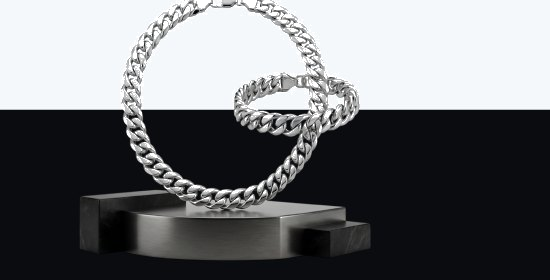
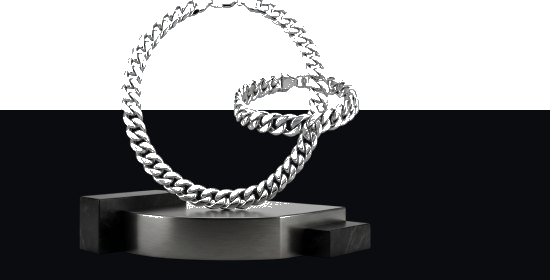
Tighten the Dr. Ice homepage to the Figma layout.
Place the collection title beside the feature ring, show the iceberg and Cuban chain sculpture, use the 3D promise icons, and finish the footer copyright row.

Changed region(s): [[0.0, 0.0, 1.0, 0.7429], [0.5255, 0.5143, 0.5873, 0.5714], [0.2782, 0.7714, 0.3091, 0.8]]

diff --git a/horizon/assets/dr-ice-home.css b/horizon/assets/dr-ice-home.css
@@ -163,24 +163,24 @@ body.template-index #MainContent > .shopify-section {
 
 .dr-ice-story__media {
   position: relative;
-  min-height: 460px;
+  min-height: 560px;
 }
 
 .dr-ice-home .dr-ice-story__hand {
   display: block;
-  width: min(100%, 640px);
-  height: 500px;
+  width: min(78%, 620px);
+  height: 540px;
   object-fit: cover;
-  object-position: center;
+  object-position: center 20%;
 }
 
-.dr-ice-story__rings {
+.dr-ice-home .dr-ice-story__rings {
   position: absolute;
-  right: 4%;
-  bottom: 8px;
-  width: min(420px, 68%);
+  left: 36%;
+  bottom: 6px;
+  z-index: 2;
+  width: min(560px, 78%);
   height: auto;
-  filter: drop-shadow(0 16px 24px rgb(10 16 28 / 12%));
 }
 
 .dr-ice-story__copy {
@@ -494,45 +494,44 @@ body.template-index #MainContent > .shopify-section {
 }
 
 .dr-ice-elegance {
+  position: relative;
+  z-index: 1;
   width: var(--ice-wrap);
-  margin: 48px auto 0;
-  padding-bottom: 24px;
+  margin: 28px auto 0;
+  padding: 36px 0 28px;
 }
 
 .dr-ice-elegance__stage {
   position: relative;
   display: grid;
-  grid-template-columns: minmax(0, 1.15fr) minmax(240px, 0.72fr);
+  grid-template-columns: minmax(0, 1.25fr) minmax(220px, 320px);
   align-items: center;
-  min-height: 460px;
+  gap: 28px;
+  margin: 72px 2% 0;
+  padding: 8px 24px 28px 12px;
+  background: var(--ice-black);
 }
 
 .dr-ice-elegance__back {
-  position: absolute;
-  left: 8%;
-  right: 0;
-  top: 18%;
-  bottom: 12%;
-  background: var(--ice-black);
+  display: none;
 }
 
 .dr-ice-elegance__card {
   position: relative;
   z-index: 1;
-  margin-right: -8%;
-  padding: 28px 36px 32px;
-  background: var(--ice-black);
+  margin: 0;
+  padding: 0 8px 4px;
+  background: transparent;
   color: #fff;
   text-align: center;
 }
 
 .dr-ice-home .dr-ice-elegance__chain {
   display: block;
-  width: min(340px, 82%);
-  height: 190px;
-  margin: 0 auto 4px;
+  width: min(500px, 92%);
+  height: auto;
+  margin: -176px auto 4px;
   object-fit: contain;
-  object-position: center bottom;
   background: transparent;
 }
 
@@ -556,29 +555,30 @@ body.template-index #MainContent > .shopify-section {
   position: relative;
   z-index: 2;
   justify-self: end;
-  width: min(100%, 360px);
-  height: 460px;
+  width: 100%;
+  height: 480px;
   object-fit: cover;
-  object-position: center top;
+  object-position: center 18%;
+  border-radius: 2px;
 }
 
 .dr-ice-collection {
   width: var(--ice-wrap);
-  margin: 36px auto 0;
-  padding-bottom: 28px;
+  margin: 48px auto 0;
+  padding-bottom: 12px;
 }
 
 .dr-ice-collection h2 {
   text-align: center;
-  font-size: clamp(30px, 3vw, 44px);
+  font-size: clamp(28px, 2.8vw, 42px);
 }
 
 .dr-ice-tabs {
   display: flex;
   flex-wrap: wrap;
-  justify-content: center;
+  justify-content: flex-start;
   gap: 10px;
-  margin-top: 18px;
+  margin-top: 16px;
 }
 
 .dr-ice-tabs button {
@@ -604,24 +604,32 @@ body.template-index #MainContent > .shopify-section {
 
 .dr-ice-collection__layout {
   display: grid;
-  grid-template-columns: 250px minmax(0, 1fr);
-  gap: 28px;
-  align-items: center;
-  margin-top: 26px;
+  grid-template-columns: minmax(210px, 270px) minmax(0, 1fr);
+  gap: 40px;
+  align-items: stretch;
+}
+
+.dr-ice-collection__main {
+  min-width: 0;
+  padding-top: 8px;
 }
 
 .dr-ice-home .dr-ice-collection__feature {
   display: block;
   width: 100%;
-  height: 440px;
+  height: 100%;
+  min-height: 520px;
   object-fit: cover;
-  border-radius: 8px;
+  object-position: center;
+  border-radius: 12px;
   background: #111;
 }
 
 .dr-ice-rail {
   position: relative;
   min-width: 0;
+  margin-top: 18px;
+  padding-bottom: 86px;
 }
 
 .dr-ice-rail__scroller {
@@ -644,12 +652,12 @@ body.template-index #MainContent > .shopify-section {
 .dr-ice-home .dr-ice-rail__ice {
   position: absolute;
   left: 0;
-  right: 36px;
+  right: 0;
   bottom: 0;
   z-index: 0;
-  width: calc(100% - 36px);
-  height: 72px;
-  object-fit: cover;
+  width: 100%;
+  height: 128px;
+  object-fit: fill;
   object-position: center bottom;
   pointer-events: none;
 }
@@ -658,10 +666,10 @@ body.template-index #MainContent > .shopify-section {
   position: relative;
   z-index: 1;
   scroll-snap-align: start;
-  border: 1px solid #9eb0df;
+  border: 1px solid #c5d4ee;
   border-radius: 6px;
-  background: linear-gradient(180deg, #f7fbfe 0%, #d7ebf6 100%);
-  min-height: 280px;
+  background: linear-gradient(180deg, rgb(255 255 255 / 82%) 0%, rgb(214 232 245 / 72%) 100%);
+  min-height: 292px;
 }
 
 .dr-ice-pcard > a:first-child {
@@ -734,7 +742,7 @@ body.template-index #MainContent > .shopify-section {
 }
 
 .dr-ice-stats article {
-  padding: 36px 16px 32px;
+  padding: 28px 16px 26px;
   text-align: center;
   border-left: 1px solid rgb(64 98 195 / 28%);
 }
@@ -743,17 +751,21 @@ body.template-index #MainContent > .shopify-section {
   border-left: 0;
 }
 
-.dr-ice-stats svg {
-  width: 36px;
-  height: 36px;
+.dr-ice-home .dr-ice-stats img {
+  display: block;
+  width: 84px;
+  height: 96px;
+  margin: 0 auto;
+  object-fit: contain;
 }
 
 .dr-ice-stats h3 {
-  margin-top: 12px;
+  margin-top: 10px;
   font-family: var(--ice-serif);
-  font-size: 22px;
-  font-weight: 600;
-  letter-spacing: 0.06em;
+  font-size: 18px;
+  font-weight: 700;
+  letter-spacing: 0.08em;
+  text-transform: uppercase;
 }
 
 .dr-ice-stats p {
@@ -836,10 +848,10 @@ body.template-index #MainContent > .shopify-section {
 .dr-ice-reviews {
   width: var(--ice-wrap);
   margin: 0 auto;
-  padding: 64px 0 28px;
+  padding: 72px 0 128px;
   display: grid;
-  grid-template-columns: minmax(240px, 0.8fr) minmax(280px, 1fr);
-  gap: 36px;
+  grid-template-columns: minmax(240px, 0.78fr) minmax(320px, 1fr);
+  gap: 48px;
   align-items: end;
 }
 
@@ -861,9 +873,13 @@ body.template-index #MainContent > .shopify-section {
   padding: 36px 28px 32px;
   border-radius: 8px;
   background:
-    radial-gradient(circle at 20% 20%, rgb(255 255 255 / 45%), transparent 28%),
-    radial-gradient(circle at 80% 70%, rgb(255 255 255 / 28%), transparent 26%),
-    linear-gradient(160deg, #8eb4e6 0%, #6f97d4 42%, #8ebee8 100%);
+    radial-gradient(circle at 12% 18%, rgb(255 255 255 / 55%) 0 1px, transparent 2px),
+    radial-gradient(circle at 28% 62%, rgb(255 255 255 / 70%) 0 1px, transparent 2px),
+    radial-gradient(circle at 70% 24%, rgb(255 255 255 / 65%) 0 1.5px, transparent 2.5px),
+    radial-gradient(circle at 84% 70%, rgb(255 255 255 / 50%) 0 1px, transparent 2px),
+    radial-gradient(circle at 48% 40%, rgb(255 255 255 / 35%), transparent 42%),
+    linear-gradient(165deg, #9ec4ee 0%, #6d97d6 46%, #a9cdee 100%);
+  background-size: 180px 140px, 220px 160px, 160px 180px, 200px 150px, auto, auto;
   color: #fff;
   text-align: center;
   box-shadow: 0 10px 30px rgb(40 70 120 / 12%);
@@ -951,12 +967,13 @@ body.template-index #MainContent > .shopify-section {
     grid-template-columns: 1fr;
   }
 
-  .dr-ice-story__hand {
+  .dr-ice-home .dr-ice-story__hand {
+    width: 100%;
     height: 380px;
   }
 
-  .dr-ice-story__rings {
-    left: 28%;
+  .dr-ice-home .dr-ice-story__rings {
+    left: 22%;
     width: min(380px, 80%);
   }
 
@@ -982,17 +999,20 @@ body.template-index #MainContent > .shopify-section {
     margin: 0;
   }
 
-  .dr-ice-elegance__card {
-    margin-right: 0;
+  .dr-ice-elegance__stage {
+    margin: 48px 0 0;
+    padding: 8px 16px 24px;
   }
 
-  .dr-ice-elegance__back {
-    display: none;
+  .dr-ice-home .dr-ice-elegance__chain {
+    width: min(320px, 80%);
+    margin-top: -72px;
   }
 
-  .dr-ice-elegance__wear {
-    width: 100%;
+  .dr-ice-home .dr-ice-elegance__wear {
+    width: min(100%, 360px);
     height: 420px;
+    justify-self: center;
   }
 
   .dr-ice-collection__feature {

diff --git a/horizon/assets/dr-ice-footer.css b/horizon/assets/dr-ice-footer.css
@@ -16,9 +16,10 @@
   display: block;
   width: 100%;
   height: auto;
-  margin-top: -78px;
+  margin-top: -52px;
   position: relative;
   z-index: 2;
+  pointer-events: none;
 }
 
 .dr-ice-footer__inner,
@@ -30,9 +31,12 @@
   display: grid;
   grid-template-columns: minmax(180px, 280px) minmax(0, 1fr);
   gap: 32px 48px;
-  width: min(1180px, calc(100% - 48px));
-  margin: 8px auto 0;
+  width: 100%;
+  margin: 0;
+  padding: 8px max(24px, calc((100% - 1180px) / 2)) 4px;
+  box-sizing: border-box;
   align-items: start;
+  background: #0a0a0a;
 }
 
 .dr-ice-footer__logo {
@@ -95,19 +99,30 @@
 }
 
 .dr-ice-footer__base {
+  display: grid;
+  grid-template-columns: minmax(180px, 280px) minmax(0, 1fr);
+  width: 100%;
+  margin: 0;
+  padding: 16px max(24px, calc((100% - 1180px) / 2)) 32px;
+  box-sizing: border-box;
+  background: #0a0a0a;
+}
+
+.dr-ice-footer__legal {
+  grid-column: 2;
   display: flex;
   align-items: center;
-  justify-content: flex-end;
-  gap: 28px;
-  width: min(1180px, calc(100% - 48px));
-  margin: 0 auto;
-  padding: 18px 0 28px;
+  justify-content: space-between;
+  gap: 20px;
   border-top: 1px solid rgb(255 255 255 / 35%);
+  padding-top: 16px;
 }
 
 .dr-ice-footer__base p {
+  flex: 1;
   margin: 0;
   font-size: 13px;
+  text-align: center;
 }
 
 .dr-ice-footer__social {
@@ -148,7 +163,8 @@
     display: grid;
   }
 
-  .dr-ice-footer__base {
-    justify-content: start;
+  .dr-ice-footer__legal {
+    grid-column: 1;
+    flex-direction: column;
   }
 }

diff --git a/horizon/assets/dr-ice-header.css b/horizon/assets/dr-ice-header.css
@@ -139,6 +139,7 @@
 }
 
 .dr-ice-header__cart {
+  --icon-stroke-width: 1.5px;
   position: relative;
   display: inline-flex;
   align-items: center;
